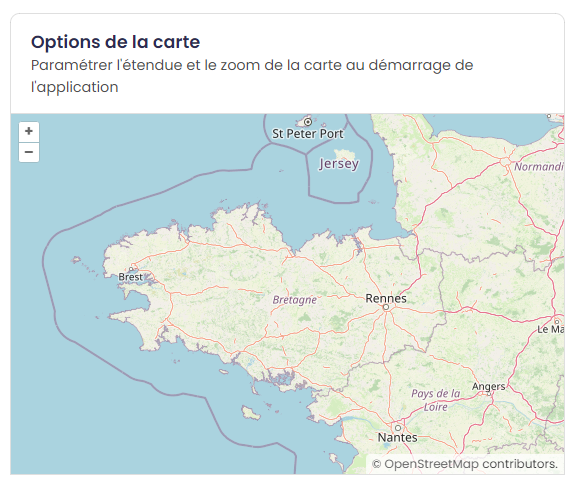
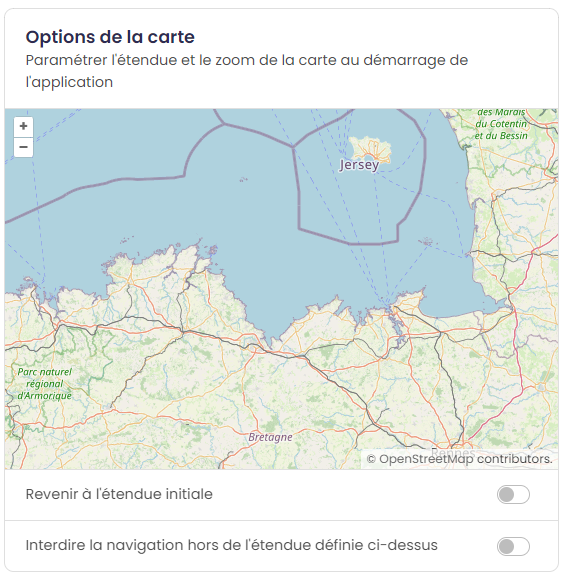
Add doc for new app options

diff --git a/docs/doc_user/param_appli.rst b/docs/doc_user/param_appli.rst
@@ -17,18 +17,26 @@ Champs principaux
 
 * ``Titre de l'application`` (\* champ obligatoire) : renseigner le titre de votre application cartographique (ex. "Le plan vélo de la Communauté de communes de Châteaugiron").
 * ``Lien vers le logo`` : renseigner l'URL du logo de l'entité productrice de l'application qui apparaitra dans dans le bandeau de l'application (Exemple sur GéoBretagne, les logos des partenaires sont stockés ici_).
-
+* :guilabel:`mode avancé` ``Lien vers le favicon`` : renseigner l'URL du fichier image à utiliser comme favicon de l’application.
+* :guilabel:`mode avancé` ``Lien vers la page principale`` : renseigner le lien d'une page web vers laquelle l'utilisateur sera redirigée en cliquant sur le logo de l'application mviewer.
 * ``Thème de l'application`` : choisir le thème permettant de personnaliser l'interface de votre application (couleur).
 
 Fonctionnalités
 -------------------------------------------
 
-Activer les outils que vous souhaitez afficher au sein de votre application :
+.. image:: ../_images/user/mviewerstudio_1_application_fonctionnalites.png
+              :alt: Page application fonctionnalites
+              :align: center
 
+Activer les outils que vous souhaitez afficher au sein de votre application :
+* ``Outils de zoom`` : cette option permet d'activer les outils de zoom +/- sur la carte.
 * ``Outils de mesures`` : cette option permet d'activer des outils de mesures de distance ou de surface.
 * ``Export de la carte en image`` : cette option permet d'exporter une capture d'écran de la carte consultée.
 * :guilabel:`mode avancé` ``Affichage des coordonnées au clic`` : cette option permet d'afficher dans le bandeau en haut les coordonnées du point cliqué.
+* :guilabel:`mode avancé` ``Afficher les coordonnées correspondant à la position de la souris`` : cette option permet d'afficher les coordonnées correspondant à la position de la souris en bas à droite de la carte .
 * :guilabel:`mode avancé` ``Afficher/masquer toutes les données d'une thématique`` : active la possibilité d'afficher toutes les données d'un thème en un clic.
+* ``Se géolocaliser`` : cette option permet d'activer l'outil de géolocalisation (bouton permettant à l'utilisateur de se localiser sur la carte).
+* :guilabel:`mode avancé` ``Ouvrir la carte dans le studio`` : active la possibilité d'ouvrir la carte en cours au sein d'un mviewerstudio.
 
 Options de la carte
 -------------------------------------------
@@ -39,7 +47,8 @@ Paramétrer l'étendue et le zoom de la carte au démarrage de l'application. Ai
               :alt: Options de la carte
               :align: center
 
-* ``Interdire la navigation hors de l'étendue définie ci-dessus`` : bloque l'emprise de la carte sur l'emprise définie :guilabel:`mode avancé`.
+* :guilabel:`mode avancé` ``Revenir à l'étendue initiale`` : cette option permet d'activer le bouton de retour à l’étendue initiale.
+* :guilabel:`mode avancé` ``Interdire la navigation hors de l'étendue définie ci-dessus`` : bloque l'emprise de la carte sur l'emprise définie.
 
 Fonds de plan
 -------------------------------------------
@@ -66,7 +75,7 @@ Activer la recherche pour offrir à vos utilisateurs la possibilité de se local
 * ``A l'adresse`` : localisation à l'adresse via le service de la Base adresse nationale ou tout autre service.
 * ``Activer la recherche d'entités`` :guilabel:`mode avancé`: la recherche peut être activée si la donnée est de type GEOJSON. Cette fonctionnalité est également activable pour les données de type WMS à la condition que les entités qui composent cette donnée soient également indéxées dans Elasticsearch. 
 
-Page d'accueil
+Page d'accueil (:guilabel:`mode avancé`)
 -------------------------------------------
 
 Il est possible de paramétrer une page d'accueil / documentation en indiquant un lien vers une page web (format .html).
@@ -75,6 +84,9 @@ Il est possible de paramétrer une page d'accueil / documentation en indiquant u
               :alt: Page d'accueil
               :align: center
 
+* ``Titre de la fenêtre d'aide / accueil`` :guilabel:`mode avancé`: Indiquer le titre de la modal avec les informations relatives à l'application (accueil ou aide).
+* ``Icône du bouton`` :guilabel:`mode avancé`: Sélectionner une icône pour le bouton d'accès à la page d'aide (localisé dans le bandeau de l'application).
+* ``Lien vers la page d'accueil`` :guilabel:`mode avancé`: Indiquer l'URL vers la page d'aide au format .html.
 * ``Afficher la page d'accueil par défaut`` :guilabel:`mode avancé`: affiche la page d'accueil au lancement de l'application.
 
 
